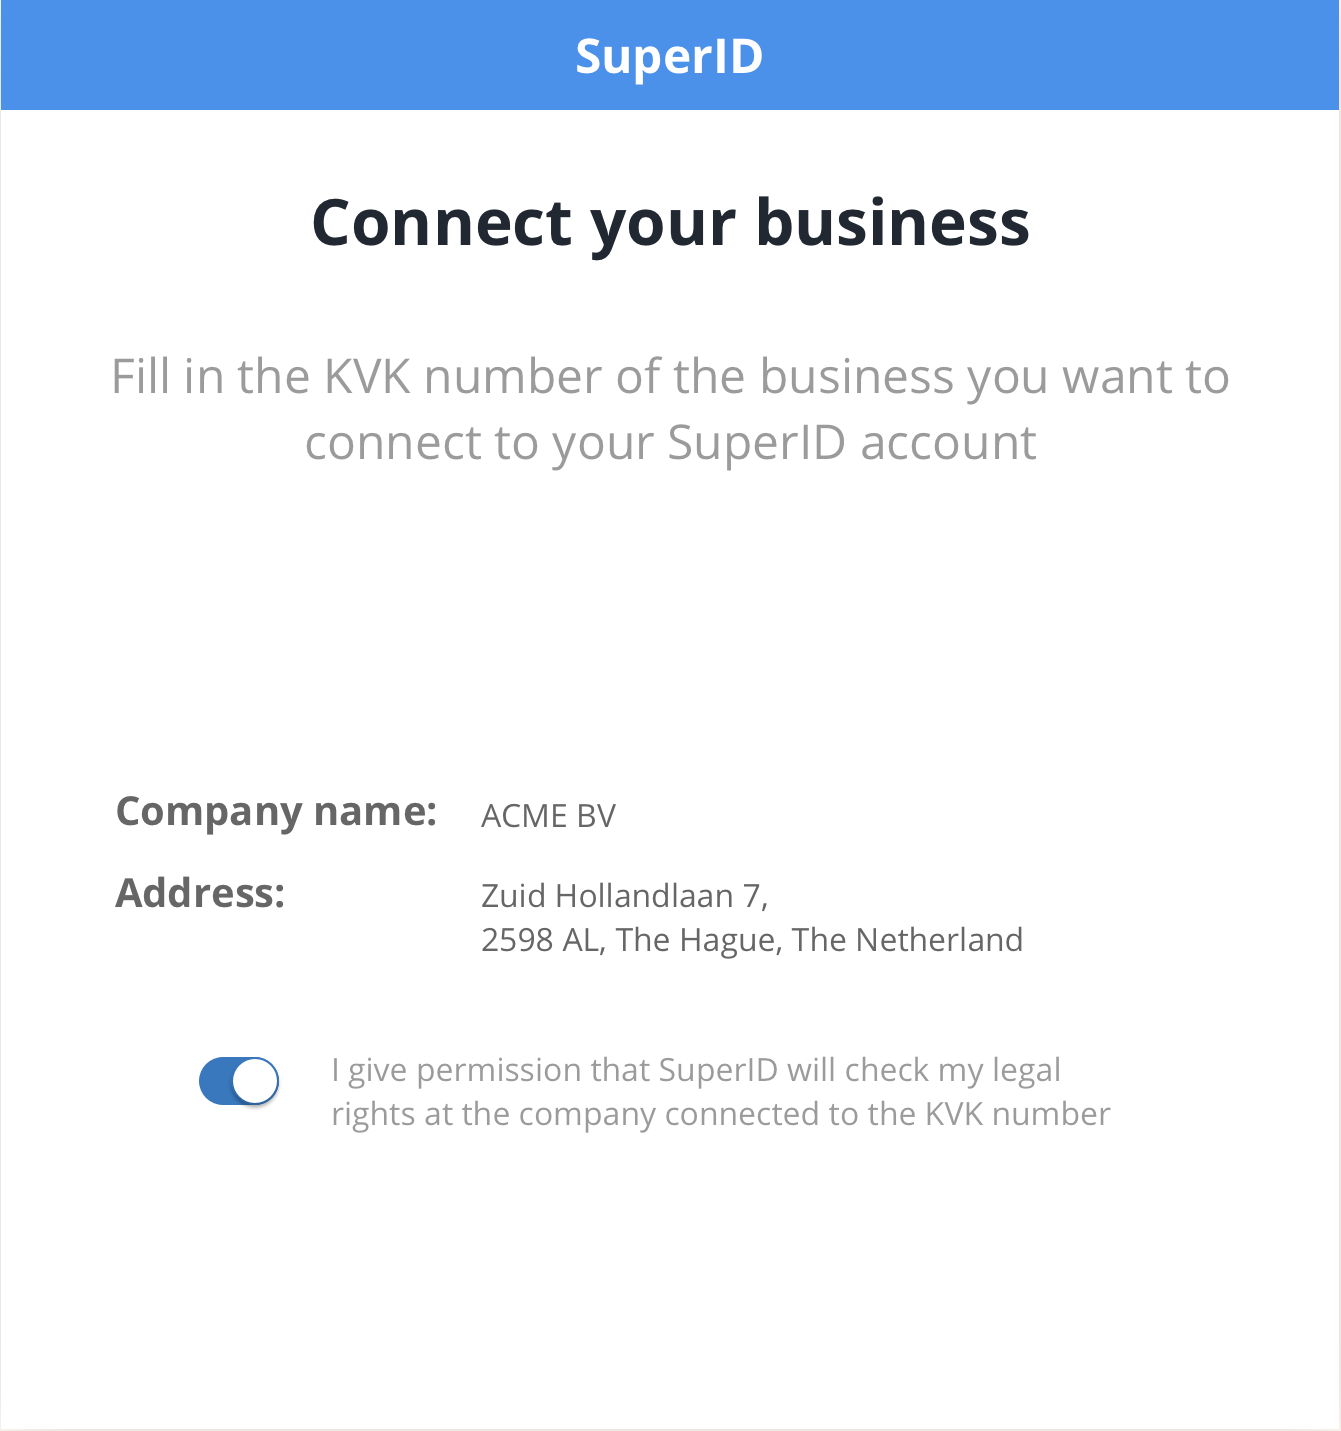
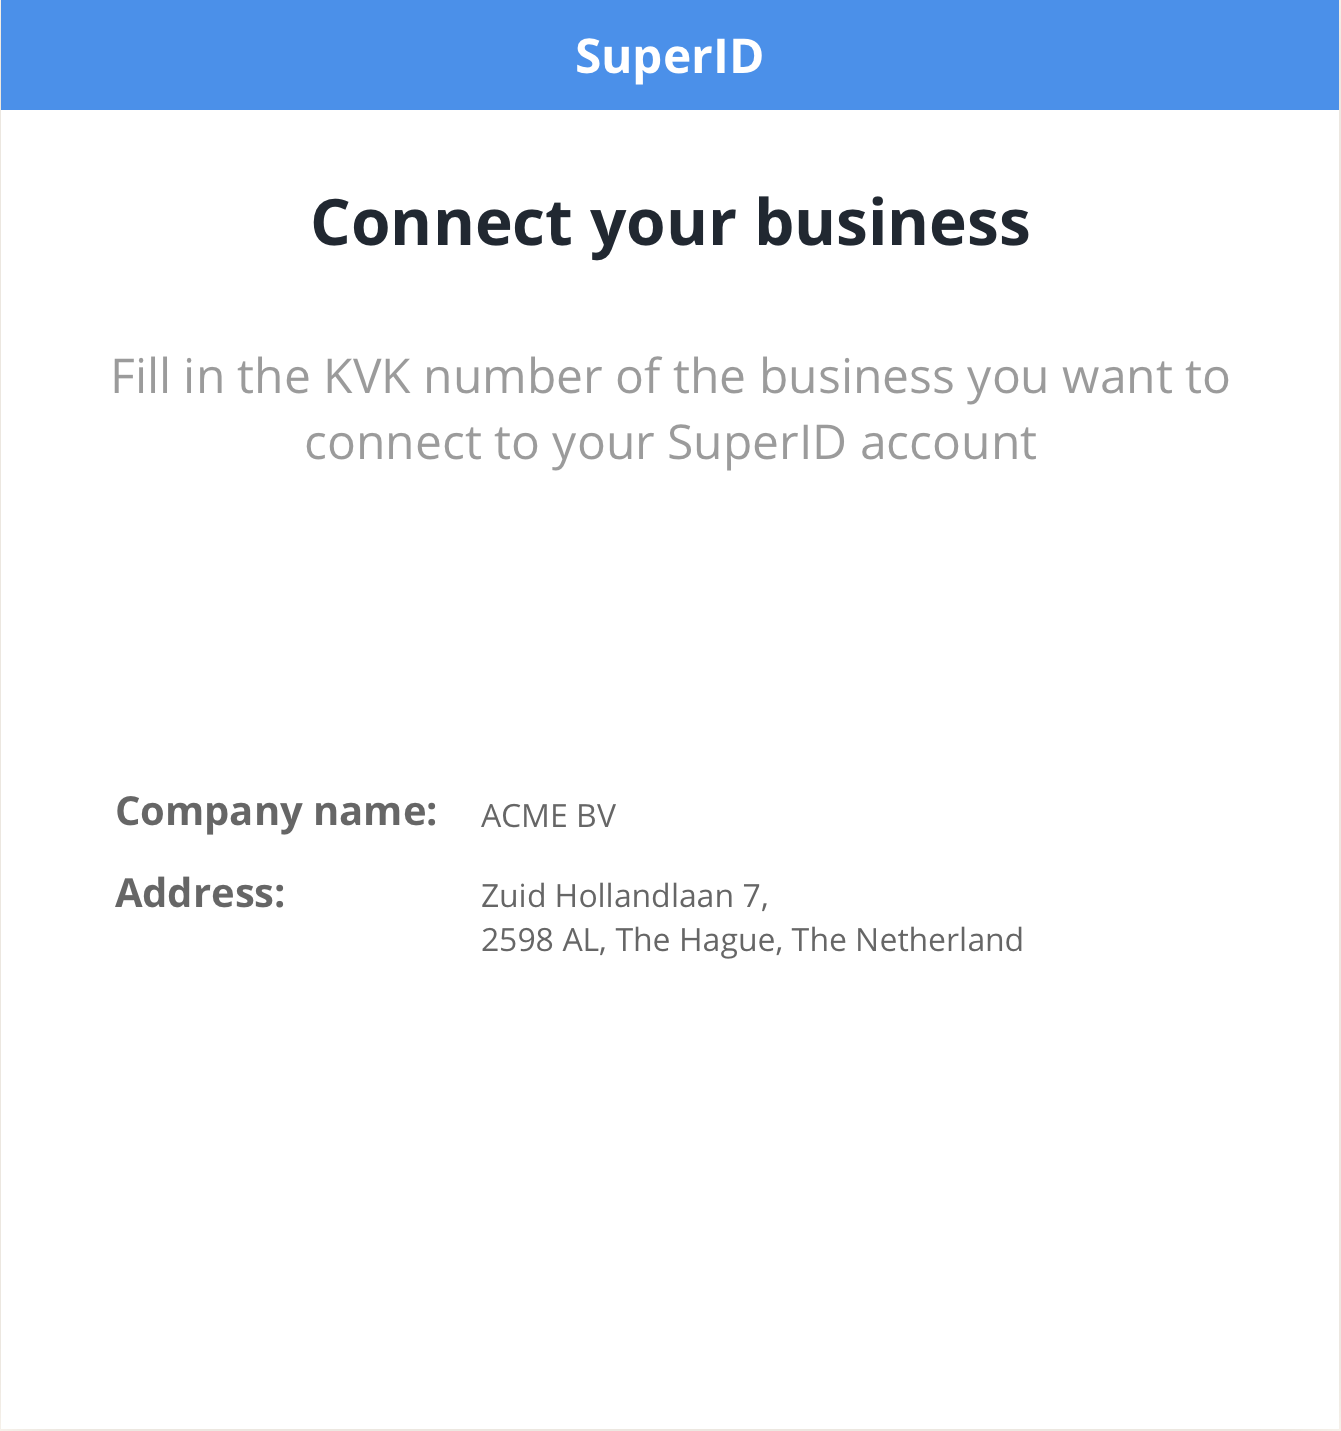
small fixes

Changed region(s): [[0.2446, 0.7379, 0.8255, 0.7994], [0.1529, 0.7379, 0.214, 0.7687]]

diff --git a/superid_account_creation_5.html b/superid_account_creation_5.html
@@ -5,12 +5,15 @@
 	<link rel="stylesheet" href="https://stackpath.bootstrapcdn.com/bootstrap/4.3.1/css/bootstrap.min.css" integrity="sha384-ggOyR0iXCbMQv3Xipma34MD+dH/1fQ784/j6cY/iJTQUOhcWr7x9JvoRxT2MZw1T" crossorigin="anonymous">
 	<meta name="viewport" content="width=device-width, initial-scale=1, shrink-to-fit=no">
 	<link href="./resources/css/signibank.css" type="text/css" rel="stylesheet">
+	<link href="./resources/css/toggle.css" type="text/css" rel="stylesheet">
 </head>
 <body style="background-color:#fffaf3">
 	<div id=button-image-container>
 		<img src="./resources/pictures/account_creation_kvk_input_filled.png" alt="" class="popup">
 		<input id=kvktext value="65688708" disabled>
-		<button type="button" class="btn btn-primary" style="margin-top:35px" onclick="window.location.href='superid_account_creation_6.html'">Connect</button>
-	</div>
-</body>
-</html>
+		<!-- Rounded switch -->
+		<div>
+			<button type="button" class="btn btn-primary" style="margin-top:35px" onclick="window.location.href='superid_account_creation_6.html'">Connect</button>
+		</div>
+	</body>
+	</html>

diff --git a/superid_account_creation_4.html b/superid_account_creation_4.html
@@ -5,11 +5,18 @@
 	<link rel="stylesheet" href="https://stackpath.bootstrapcdn.com/bootstrap/4.3.1/css/bootstrap.min.css" integrity="sha384-ggOyR0iXCbMQv3Xipma34MD+dH/1fQ784/j6cY/iJTQUOhcWr7x9JvoRxT2MZw1T" crossorigin="anonymous">
 	<meta name="viewport" content="width=device-width, initial-scale=1, shrink-to-fit=no">
 	<link href="./resources/css/signibank.css" type="text/css" rel="stylesheet">
+	<link href="./resources/css/toggle.css" type="text/css" rel="stylesheet">
 </head>
 <body style="background-color:#fffaf3">
 	<div id=button-image-container>
 		<img src="./resources/pictures/account_creation_kvk_input.png" alt="" class="popup">
 		<input id=kvktext placeholder="e.g. 12345678">
+		<div id=toggle>
+			<label class="switch">
+				<input type="checkbox">
+				<span class="slider round"></span>
+			</label>
+		</div>
 		<button type="button" class="btn btn-primary" style="margin-top:35px" onclick="changeImage();">Connect</button>
 	</div>
 </body>
@@ -19,5 +26,5 @@
 			window.location.href='superid_account_creation_5.html';
 		}, 800);
 	}
-	</script>
+</script>
 </html>

diff --git a/resources/css/toggle.css b/resources/css/toggle.css
@@ -1,0 +1,62 @@
+/* The switch - the box around the slider */
+.switch {
+  position: relative;
+  display: inline-block;
+  width: 36px;
+  height: 21px;
+}
+
+/* Hide default HTML checkbox */
+.switch input {
+  opacity: 0;
+  width: 0;
+  height: 0;
+}
+
+/* The slider */
+.slider {
+  position: absolute;
+  cursor: pointer;
+  top: 0;
+  left: 0;
+  right: 0;
+  bottom: 0;
+  background-color: #ccc;
+  -webkit-transition: .4s;
+  transition: .4s;
+}
+
+.slider:before {
+  position: absolute;
+  content: "";
+  height: 16px;
+  width: 16px;
+  left: 3px;
+  bottom: 3px;
+  background-color: white;
+  -webkit-transition: .4s;
+  transition: .4s;
+}
+
+input:checked + .slider {
+  background-color: #2196F3;
+}
+
+input:focus + .slider {
+  box-shadow: 0 0 1px #2196F3;
+}
+
+input:checked + .slider:before {
+  -webkit-transform: translateX(16px);
+  -ms-transform: translateX(16px);
+  transform: translateX(16px);
+}
+
+/* Rounded sliders */
+.slider.round {
+  border-radius: 21px;
+}
+
+.slider.round:before {
+  border-radius: 50%;
+}

diff --git a/superid_account_creation_7.html b/superid_account_creation_7.html
@@ -5,10 +5,17 @@
 	<link rel="stylesheet" href="https://stackpath.bootstrapcdn.com/bootstrap/4.3.1/css/bootstrap.min.css" integrity="sha384-ggOyR0iXCbMQv3Xipma34MD+dH/1fQ784/j6cY/iJTQUOhcWr7x9JvoRxT2MZw1T" crossorigin="anonymous">
 	<meta name="viewport" content="width=device-width, initial-scale=1, shrink-to-fit=no">
 	<link href="./resources/css/signibank.css" type="text/css" rel="stylesheet">
+	<link href="./resources/css/toggle.css" type="text/css" rel="stylesheet">
 </head>
 <body style="background-color:#fffaf3">
 	<div id=button-image-container>
 		<img src="./resources/pictures/account_creation_completion.png" alt="" class="popup">
+		<div id=toggle style="top: 82.5%">
+			<label class="switch">
+				<input type="checkbox">
+				<span class="slider round"></span>
+			</label>
+		</div>
 		<button type="button" class="btn btn-primary" style="margin-top:60px" onclick="moveDelayed()">Create Signibank account</button>
 	</div>
 </body>

diff --git a/profile.html b/profile.html
@@ -1,0 +1,13 @@
+<!DOCTYPE html>
+<html lang="en">
+<head>
+	<meta charset="UTF-8">
+	<link rel="stylesheet" href="https://stackpath.bootstrapcdn.com/bootstrap/4.3.1/css/bootstrap.min.css" integrity="sha384-ggOyR0iXCbMQv3Xipma34MD+dH/1fQ784/j6cY/iJTQUOhcWr7x9JvoRxT2MZw1T" crossorigin="anonymous">
+	<meta name="viewport" content="width=device-width, initial-scale=1, shrink-to-fit=no">
+	<meta charset="UTF-8">
+	<link href="./resources/css/signibank.css" type="text/css" rel="stylesheet">
+</head>
+<body style="background-color:#fffaf3">
+	<img src="./resources/pictures/returning_user.png" class="profile-center">
+</body>
+</html>

diff --git a/resources/css/signibank.css b/resources/css/signibank.css
@@ -140,6 +140,14 @@ body html{
   -ms-transform: translate(-50%, -50%);
 }
 
+#toggle {
+  position: absolute;
+  text-align: center;
+  top: 76.5%;
+  left: 40.5%;
+  transform: translate(-50%, -50%);
+  -ms-transform: translate(-50%, -50%);
+}
 .invisible-button{
   position: absolute;
   background: transparent;
@@ -147,6 +155,9 @@ body html{
   font-size:0;
 }
 
-.lato {
-    font-family: Lato;
+.profile-center {
+ display: block;
+ margin-left: auto;
+ margin-right: auto;
+ width: 75%;
 }
